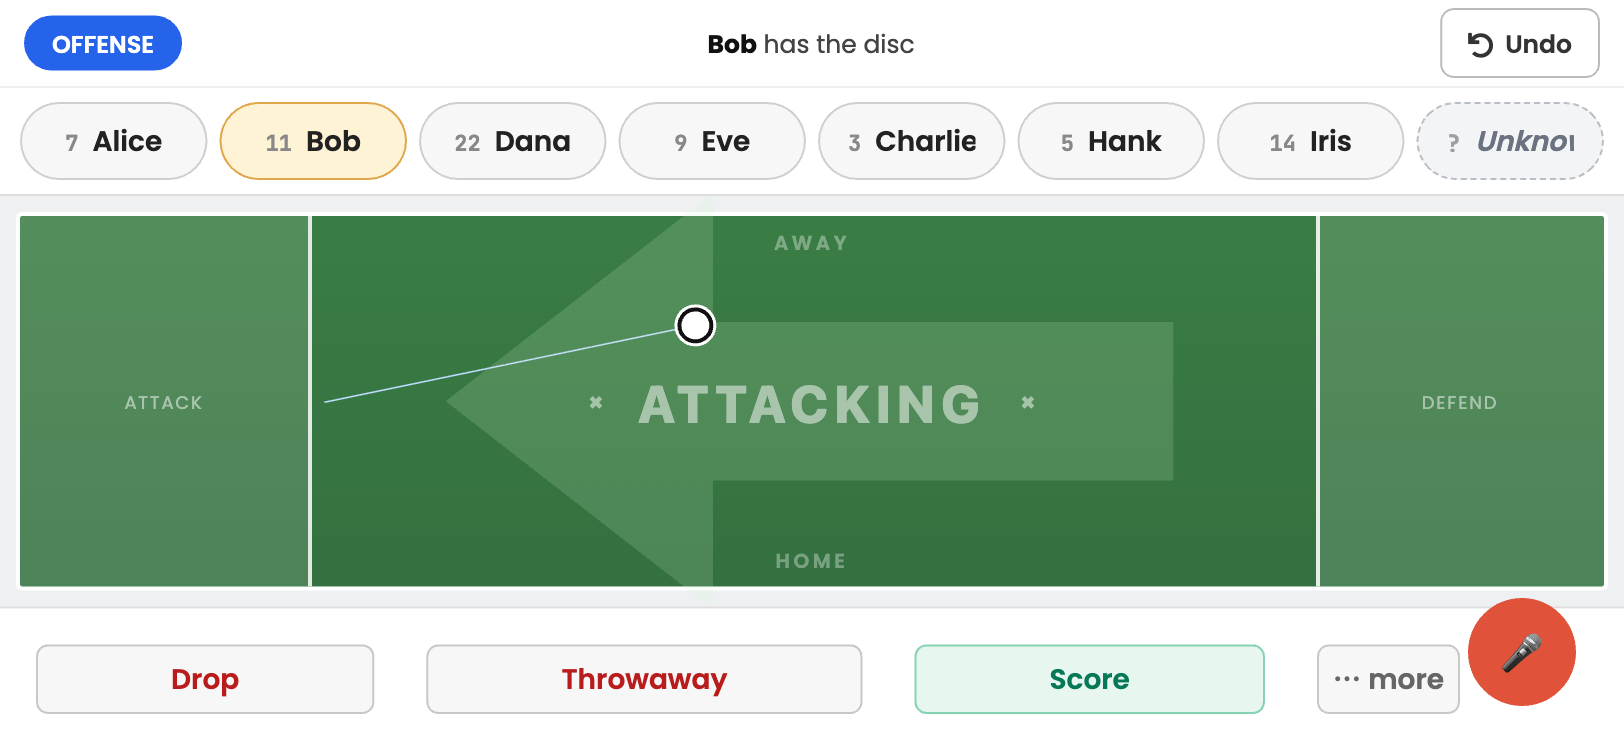
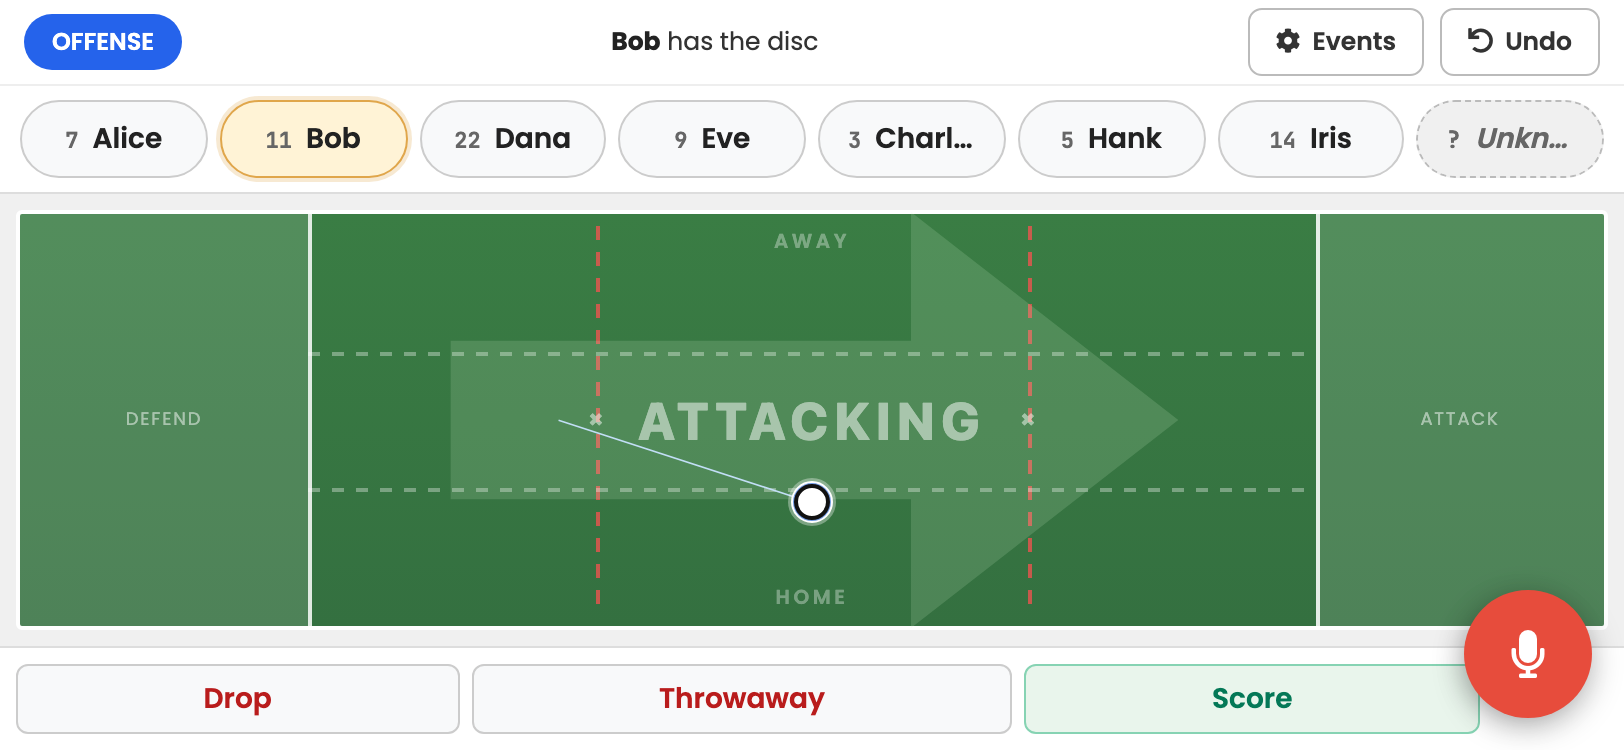
landing: re-shoot the hero carousel from the wordmark-era chrome
Six of the seven phone-frame stills still showed the orange header with the
disc logo. Add tests/demo/hero-shots.spec.ts, which plays one scripted game
(Breakside 6 - Rival City 6, canonical roster) and captures all seven slides
at 750x1624 from the current app, so the next re-shoot is one command instead
of an afternoon. Gated on HERO_SHOTS=1 so record-demos.sh skips it.

The score-attribution slide is shot last: "We Score" stops point-time accrual
before the dialog opens and the X close does not resume it, so later tabs
would render between-points.

diff --git a/tests/demo/hero-shots.spec.ts b/tests/demo/hero-shots.spec.ts
@@ -1,0 +1,152 @@
+/**
+ * Landing-page hero carousel stills — landing/screens/*.png.
+ *
+ * Re-shoots the seven slides from one consistent game (Breakside 6 – Rival City
+ * 6, canonical roster, thirteenth point about a minute old) so the phone frames
+ * on the landing page all show the same afternoon. Run whenever the in-game
+ * chrome changes enough that the old stills look dated:
+ *
+ *   cd tests && HERO_SHOTS=1 npx playwright test --config=playwright.demo.config.ts demo/hero-shots.spec.ts
+ *
+ * Gated behind HERO_SHOTS so a plain `record-demos.sh` (which runs every spec
+ * under demo/ with video on) skips it instead of spending three minutes on a
+ * take it will never cut.
+ *
+ * Frames are 375×812 CSS px at 2× (750×1624), matching the phone frame the
+ * carousel draws around them; the landscape slide rotates the viewport, which
+ * is what flips the Field tab into its takeover layout (see fieldPbp.js).
+ */
+import { test, expect, Page } from '@playwright/test';
+import path from 'path';
+import { BACKEND_URL } from '../helpers/constants';
+import { addRoster, beginGame, checkWholeLine, completePull, goToTab, makeTeam, scoreFor, startPoint } from './setup';
+
+const OUT = path.resolve(__dirname, '..', '..', 'landing', 'screens');
+
+/** The canonical fictional roster (ARCHITECTURE.md § Names in examples). */
+const ROSTER = [
+  { name: 'Alice', number: '7', gender: 'FMP' as const },
+  { name: 'Bob', number: '11', gender: 'MMP' as const },
+  { name: 'Charlie', number: '3', gender: 'MMP' as const },
+  { name: 'Dana', number: '22', gender: 'FMP' as const },
+  { name: 'Eve', number: '9', gender: 'FMP' as const },
+  { name: 'Hank', number: '5', gender: 'MMP' as const },
+  { name: 'Iris', number: '14', gender: 'FMP' as const },
+  { name: 'Jake', number: '8', gender: 'MMP' as const },
+  { name: 'Kris', number: '2', gender: 'MMP' as const },
+  { name: 'Mia', number: '17', gender: 'FMP' as const },
+];
+const LINE_A = ['Alice', 'Bob', 'Charlie', 'Dana', 'Eve', 'Hank', 'Iris'];
+const LINE_B = ['Alice', 'Bob', 'Dana', 'Eve', 'Jake', 'Kris', 'Mia'];
+
+/** How old the running point is when the stills are taken. */
+const POINT_AGE_MS = 75_000;
+
+test.use({
+  viewport: { width: 375, height: 812 },
+  deviceScaleFactor: 2,
+  video: 'off',
+});
+
+/** Light theme, no hint toasts, and no 10 s cloud refresh mid-gesture (see cinema.ts). */
+async function quiet(page: Page) {
+  await page.addInitScript(() => {
+    try {
+      const k = 'breakside_advanced_settings';
+      const s = JSON.parse(localStorage.getItem(k) || '{}');
+      s['hints.hideAll'] = true;
+      s['sync.refreshIntervalSec'] = 120;
+      s['display.theme'] = 'light';
+      localStorage.setItem(k, JSON.stringify(s));
+    } catch (_) {}
+  });
+}
+
+/** Chip then spot on the Field tab (fractions of the field box, portrait attacks up). */
+async function fieldPass(page: Page, name: string, fx: number, fy: number) {
+  await page.locator('.fp-chip').filter({ hasText: name }).first().click();
+  const box = await page.locator('#fpField').boundingBox();
+  if (!box) throw new Error('no #fpField box');
+  await page.mouse.click(box.x + box.width * fx, box.y + box.height * fy);
+  await expect(page.locator('.fp-statusbar')).toContainText(name, { timeout: 8_000 });
+  await page.waitForTimeout(400);
+}
+
+async function shot(page: Page, name: string) {
+  await page.waitForTimeout(500);
+  await page.screenshot({ path: path.join(OUT, `${name}.png`) });
+}
+
+test('hero-shots', async ({ page }) => {
+  test.skip(!process.env.HERO_SHOTS, 'set HERO_SHOTS=1 to re-shoot the landing carousel stills');
+  test.setTimeout(420_000);
+
+  await quiet(page);
+  await page.goto(`/?testMode=true&testUserId=hero-shots&api=${BACKEND_URL}`);
+  await expect(page.locator('#selectTeamScreen')).toBeVisible({ timeout: 15_000 });
+  await expect(page.locator('#splashScreen')).toHaveCount(0, { timeout: 10_000 });
+  await expect(page.locator('html')).toHaveAttribute('data-theme', 'light');
+
+  await makeTeam(page, 'Breakside');
+  await addRoster(page, ROSTER);
+  await beginGame(page, 'offense', 'Rival City');
+
+  // Twelve points to 6–6, alternating lines. We start on offense and trade:
+  // every point we win puts us on defense (pull) for the next, which they win.
+  for (let i = 0; i < 12; i++) {
+    const line = i % 2 === 0 ? LINE_A : LINE_B;
+    const weScore = i % 2 === 0;
+    await goToTab(page, 'line');
+    await checkWholeLine(page, line);
+    await startPoint(page);
+    if (!weScore) await completePull(page, line.includes('Hank') ? 'Hank' : 'Jake');
+    await page.waitForTimeout(1200);
+    await goToTab(page, 'simple');
+    if (weScore) {
+      await scoreFor(page, line[0], line[1]);
+    } else {
+      await page.locator('#pbpTheyScoreBtn').click();
+    }
+    await page.waitForTimeout(1200);
+  }
+  await expect(page.locator('#gameScoreUs')).toHaveText('6');
+  await expect(page.locator('#gameScoreThem')).toHaveText('6');
+
+  // Thirteenth point, on offense, with the starting line; let the point timer
+  // age so the header shows a plausible mid-point value rather than 0:0x.
+  await goToTab(page, 'line');
+  await checkWholeLine(page, LINE_A);
+  await startPoint(page);
+  await page.waitForTimeout(POINT_AGE_MS);
+
+  await goToTab(page, 'simple');
+  await shot(page, 'simple');
+
+  await goToTab(page, 'full');
+  await shot(page, 'full');
+
+  await goToTab(page, 'field');
+  await fieldPass(page, 'Alice', 0.5, 0.66);
+  await shot(page, 'field');
+
+  await fieldPass(page, 'Bob', 0.3, 0.5);
+  await page.setViewportSize({ width: 812, height: 375 });
+  await expect(page.locator('body')).toHaveClass(/fp-landscape-takeover/, { timeout: 5_000 });
+  await shot(page, 'field-landscape');
+  await page.setViewportSize({ width: 375, height: 812 });
+  await expect(page.locator('body')).not.toHaveClass(/fp-landscape-takeover/, { timeout: 5_000 });
+
+  await goToTab(page, 'line');
+  await shot(page, 'line');
+
+  await goToTab(page, 'all');
+  await shot(page, 'all');
+
+  // Last, because it ends the point: "We Score" stops point-time accrual
+  // before the attribution dialog opens, and the X close does not resume it,
+  // so every tab after this one would render its between-points state.
+  await goToTab(page, 'simple');
+  await page.locator('#pbpWeScoreBtn').click();
+  await expect(page.locator('#scoreAttributionDialog')).toBeVisible();
+  await shot(page, 'simple-score');
+});

diff --git a/docs/dev-notes/logo-wordmark.md b/docs/dev-notes/logo-wordmark.md
@@ -1,6 +1,6 @@
 # Wordmark logo rollout
 
-Status: shipped (branch `logo-refresh`, mid-2026); three spots still on the old disc asset as of 2026-09-05.
+Status: complete as of 2026-09-07 (branch `retire-disc-logo`); the disc artwork survives only in the favicon / app-icon set.
 
 ## What shipped
 
@@ -12,14 +12,19 @@ Status: shipped (branch `logo-refresh`, mid-2026); three spots still on the old 
 
 `apple-mobile-web-app-status-bar-style` is `default` (was `black-translucent`). **Do not use `viewport-fit=cover`.** An attempt with it extended the canvas under the notch, and top-anchored fixed elements that are not safe-area aware (the "Next Point" countdown at `top:10px`, toasts) drew into the dynamic island while `env()`-padded elements sat below: an inconsistent top reference. Without cover, the layout viewport stays below the notch and the default status bar paints it white. The main `<header>` still breaks out of body's 5 px padding via negative margins; the `env(safe-area-inset-top)` paddings on the headers remain but are no-ops.
 
-## Still on `logo.disc.only.png`
+## Disc logo retired (2026-09-07)
 
-These sit on dark or non-white backgrounds and want the transparent wordmark:
+`images/logo.disc.only.png` and `images/logo.png` are deleted. The last three
+`<img>` spots (in-app auth screen, landing footer, join footer) all sit on dark
+surfaces in both themes, so they use `logo.wordmark.dark.png` directly with no
+`data-dark-src` swap. The landing hero carousel stills were re-shot from the
+current chrome with `tests/demo/hero-shots.spec.ts` (see
+`landing/screens/README.md`).
 
-- In-app auth screen logo: `index.html` (search for `logo.disc.only`)
-- Landing footer: `landing/index.html`, `landing/join.html`
-
-The public viewer has been updated. Also: the landing hero's phone-mockup screenshots still show the old orange in-game header and should be regenerated.
+What still carries the disc artwork: `images/favicon-*.png`, `images/favicon.ico`,
+`images/staging/favicon-*.png` (and `browserconfig.xml`'s tile). Replacing the
+app icon needs a square mark derived from the wordmark, which is a design
+decision, not a search-and-replace.
 
 ## Loose end from the same review
 

diff --git a/landing/screens/README.md b/landing/screens/README.md
@@ -1,9 +1,16 @@
 # Hero carousel media
 
-Real-app screenshots for the landing-page hero carousel, captured from a live
-game (Breakside vs. Rival City) in the running app. To swap any of these for an
-updated screenshot or a short looping clip (MP4/WebM), edit the `HERO_SLIDES`
-array in [`../hero-carousel.js`](../hero-carousel.js):
+Real-app screenshots for the landing-page hero carousel, captured from one
+scripted game (Breakside 6 – Rival City 6, canonical roster) by
+[`tests/demo/hero-shots.spec.ts`](../../tests/demo/hero-shots.spec.ts). Re-shoot
+all seven whenever the in-game chrome changes:
+
+```bash
+cd tests && HERO_SHOTS=1 npx playwright test --config=playwright.demo.config.ts demo/hero-shots.spec.ts
+```
+
+To swap any slide for a different screenshot or a short looping clip (MP4/WebM),
+edit the `HERO_SLIDES` array in [`../hero-carousel.js`](../hero-carousel.js):
 
 - Drop the new file in this folder (keep the name, or update `media.src`).
 - For video, set `media.type: 'video'` and point `media.src` at the `.mp4`/`.webm`.
@@ -21,5 +28,5 @@ array in [`../hero-carousel.js`](../hero-carousel.js):
 | `line`            | line.png              | Line tab (roster, score progression, points-played)      |
 | `all`             | all.png               | All tab — combined PBP + Next Line + Game Log            |
 
-All shots are from one consistent game (Breakside 6 – Rival City 6) with a tidy
-point-timer.
+All shots are from one consistent game with the thirteenth point about a
+minute old, so the header point-timer reads as mid-point rather than 0:0x.
